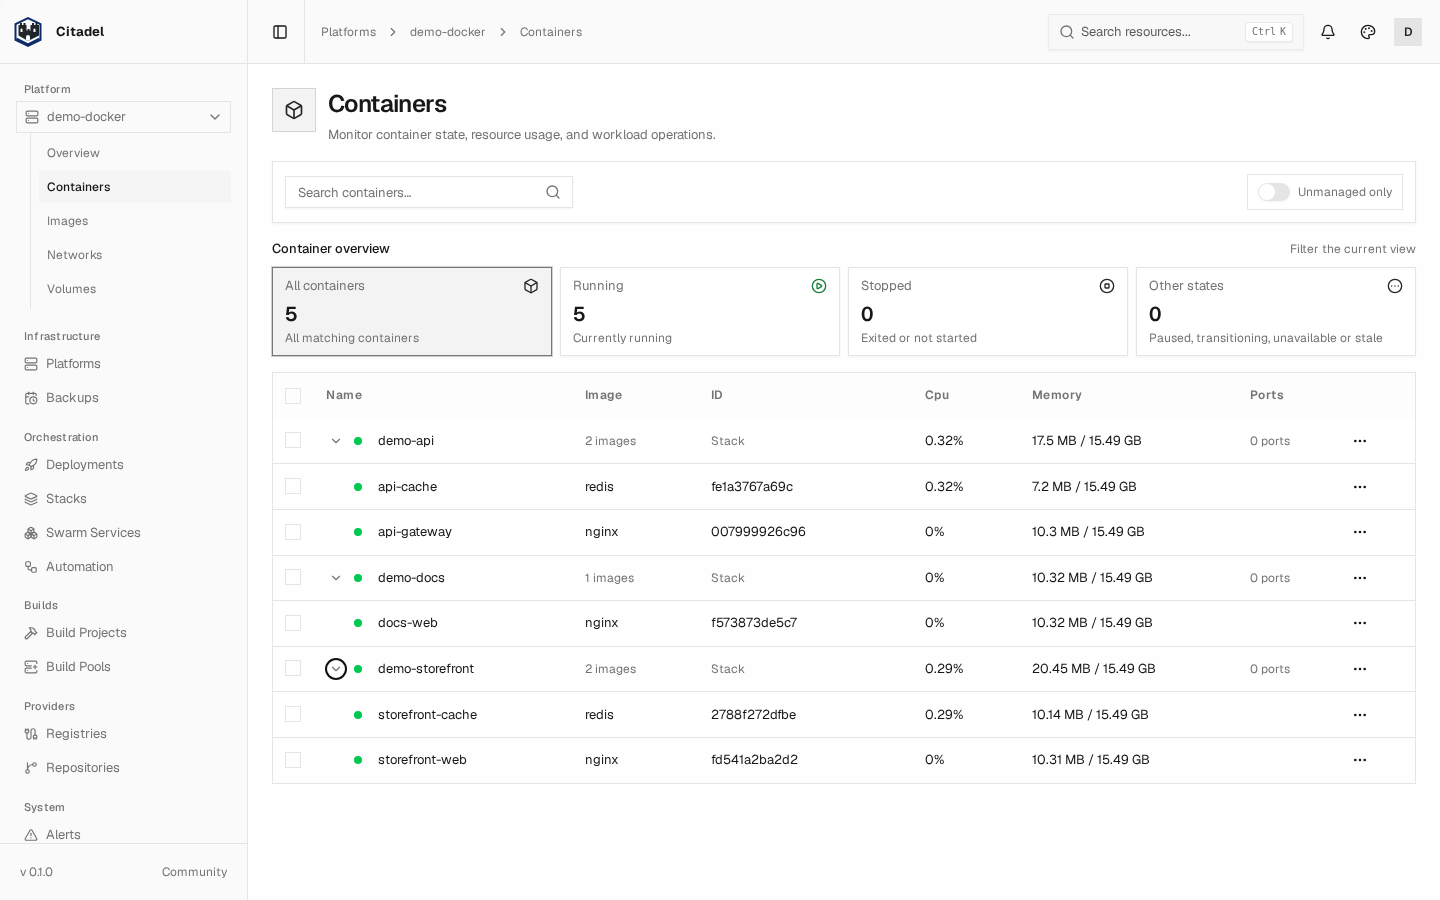
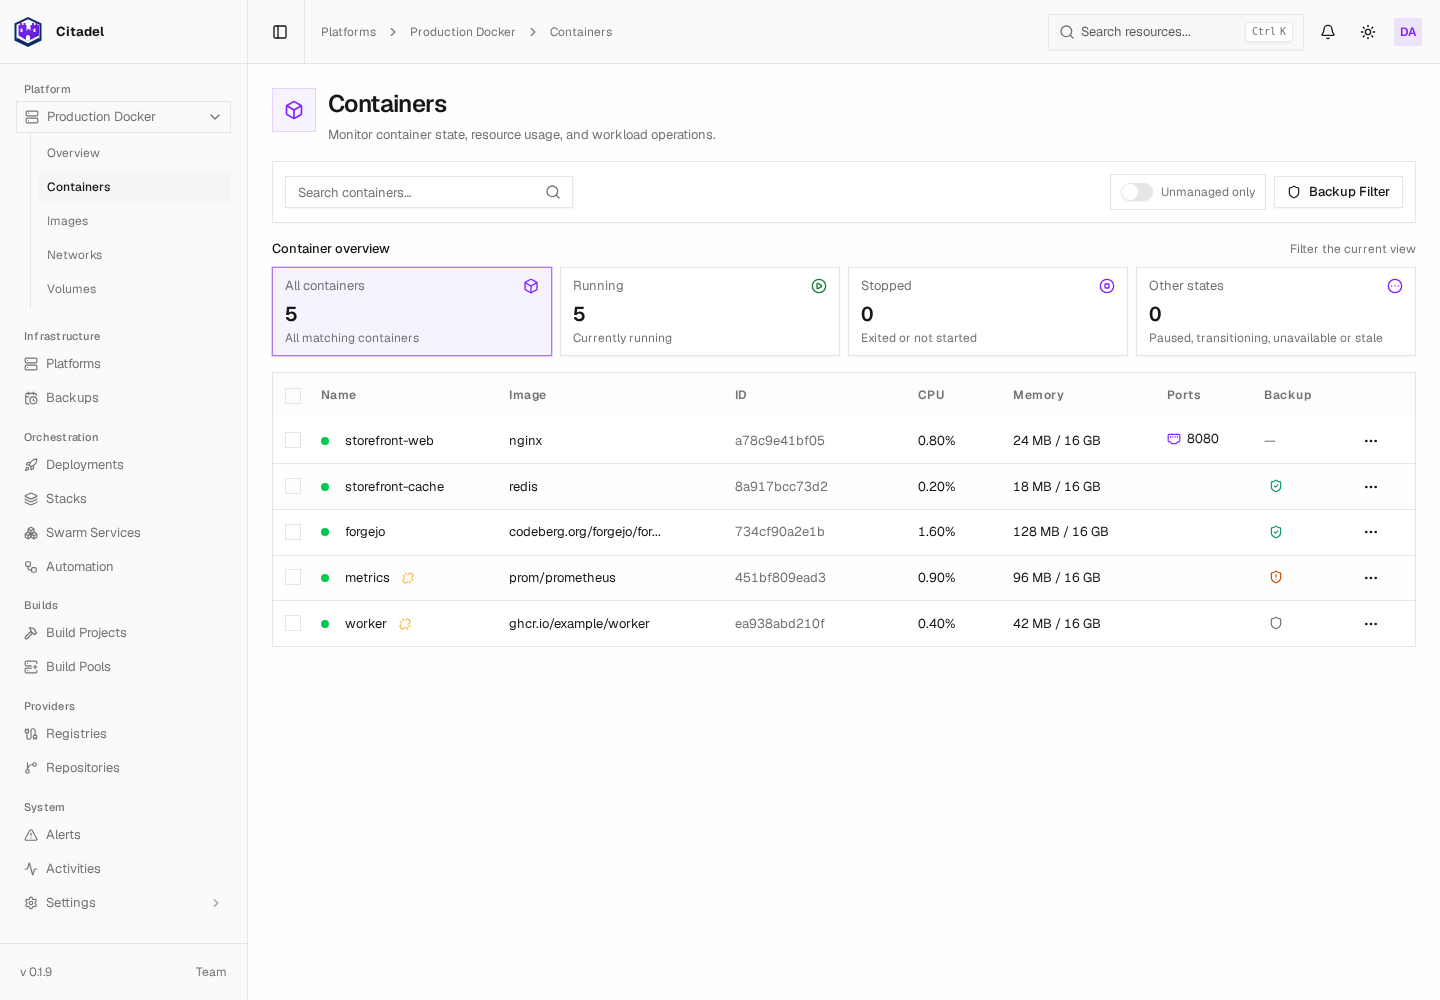
chore(release): prepare 0.1.10 with refreshed README screenshots

diff --git a/README.md b/README.md
@@ -29,9 +29,9 @@ Capabilities vary by edition; see the [Community and Team comparison](docs/conte
 
 ![Citadel Platforms page with an online standalone Docker host and an online Swarm host](docs/public/screenshots/platforms.png)
 
-![Citadel Docker platform with five running containers and live CPU and memory usage](docs/public/screenshots/platform-containers.png)
+![Citadel Docker platform with five running containers, resource usage, and backup coverage](docs/public/screenshots/platform-containers.png)
 
-![Citadel Swarm overview with three healthy services and their running replica counts](docs/public/screenshots/swarm-services.png)
+![Citadel Swarm Services table with replica counts, backup coverage, and filters](docs/public/screenshots/swarm-services.png)
 
 ![Citadel Swarm service configuration showing replica settings and deployment controls](docs/public/screenshots/swarm-service-config.png)
 
